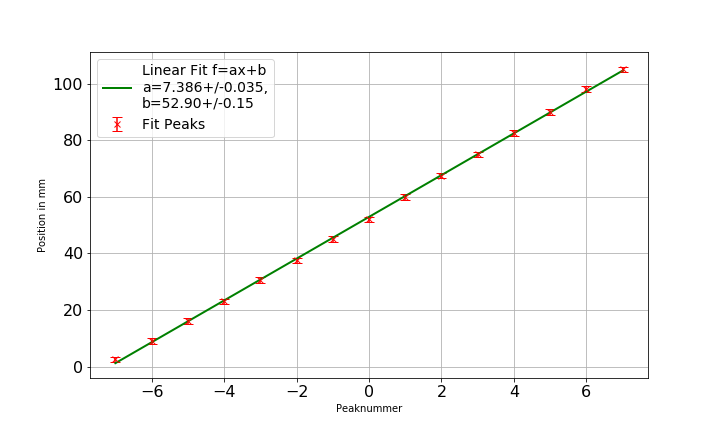
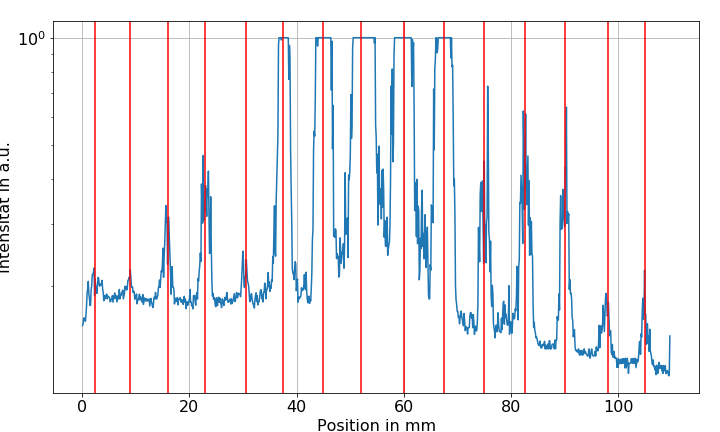
OFT prepull

diff --git a/OFT/BA-C-04_OFT_17-06-2019.tex b/OFT/BA-C-04_OFT_17-06-2019.tex
@@ -293,6 +293,100 @@
 	% Allgemeine Beobachtungen
 	% Einflüsse von veränderten Parametern auf Messung
 
+\begin{figure}[H]
+        \centering
+        \begin{subfigure}[b]{0.475\textwidth}
+            \centering
+            \includegraphics[width=\textwidth]{img/2/2_gitter_g1}
+            \caption%
+            {Profil, Gitter g1}
+            \label{fig_2_profil_g1}
+        \end{subfigure}
+        \hfill
+        \begin{subfigure}[b]{0.475\textwidth}
+            \centering
+            \includegraphics[width=\textwidth]{img/2/2_gitter_g1_fit}
+            \caption[]%
+            {Fit, Gitter g1}
+            \label{fig_2_fit_g1}
+        \end{subfigure}
+        \begin{subfigure}[b]{0.475\textwidth}
+            \centering
+            \includegraphics[width=\textwidth]{img/2/2_gitter_g2}
+            \caption%
+            {Profil, Gitter g2}
+            \label{fig_2_profil_g2}
+        \end{subfigure}
+        \hfill
+        \begin{subfigure}[b]{0.475\textwidth}
+            \centering
+            \includegraphics[width=\textwidth]{img/2/2_gitter_g2_fit}
+            \caption[]%
+            {Fit, Gitter g2}
+            \label{fig_2_fit_g2}
+        \end{subfigure}
+        \begin{subfigure}[b]{0.475\textwidth}
+            \centering
+            \includegraphics[width=\textwidth]{img/2/2_gitter_g3}
+            \caption%
+            {Profil, Gitter g3}
+            \label{fig_2_profil_g3}
+        \end{subfigure}
+        \hfill
+        \begin{subfigure}[b]{0.475\textwidth}
+            \centering
+            \includegraphics[width=\textwidth]{img/2/2_gitter_g3_fit}
+            \caption[]%
+            {Fit, Gitter g3}
+            \label{fig_2_fit_g3}
+        \end{subfigure}
+        \caption%
+        {
+				Kameraaufnahmen und Intensitätsprofile für verschiedene Gitter.
+				Die x-Achse \enquote{Position} sagt nichts über die absolute Position des Maximums aus, sondern dient lediglich dem Bestimmen von Abständen zwischen Peaks.
+				}
+        \label{fig_2_mix_1}
+    \end{figure}
+	\begin{figure}[H]\ContinuedFloat
+        \centering
+
+				\begin{subfigure}[b]{0.475\textwidth}
+            \centering
+            \includegraphics[width=\textwidth]{img/2/2_gitter_g4}
+            \caption%
+            {Profil, Gitter g4}
+            \label{fig_2_profil_g4}
+        \end{subfigure}
+        \hfill
+        \begin{subfigure}[b]{0.475\textwidth}
+            \centering
+            \includegraphics[width=\textwidth]{img/2/2_gitter_g4_fit}
+            \caption[]%
+            {Fit, Gitter g4}
+            \label{fig_2_fit_g4}
+        \end{subfigure}
+        \begin{subfigure}[b]{0.475\textwidth}
+            \centering
+            \includegraphics[width=\textwidth]{img/2/2_gitter_g5}
+            \caption%
+            {Profil, Gitter g5}
+            \label{fig_2_profil_g5}
+        \end{subfigure}
+        \hfill
+        \begin{subfigure}[b]{0.475\textwidth}
+            \centering
+            \includegraphics[width=\textwidth]{img/2/2_gitter_g5_fit}
+            \caption[]%
+            {Fit, Gitter g5}
+            \label{fig_2_fit_g5}
+        \end{subfigure}
+        \caption%
+        {
+				Kameraaufnahmen und Intensitätsprofile für verschiedene Gitter.
+				Die x-Achse \enquote{Position} sagt nichts über die absolute Position des Maximums aus, sondern dient lediglich dem Bestimmen von Abständen zwischen Peaks. (Forts.)
+				}
+        \label{fig_2_mix_2}
+    \end{figure}
 	\subsubsection*{Diskussion}
 	% Bezug/Nutzen oder sonst was
 	% auch hier die Hypothese wiederholen

diff --git a/OFT/scripts/gen.py b/OFT/scripts/gen.py
@@ -23,7 +23,7 @@ usd=unp.std_devs
 # Konstanten fuer einheitliche Darstellung
 
 fig_size = (10, 6)
-fig_legendsize = 14
+fig_legendsize = 18
 fig_labelsize = 16
 matplotlib.rcParams.update({'font.size': fig_labelsize})
 
@@ -212,6 +212,7 @@ for name in names:
     #plt.gca().set_xscale('log');
     #plt.legend(prop={'size':fig_legendsize})
     plt.grid()
+    plt.tight_layout()
     plt.ylabel('Intensität in a.u.')
     plt.tick_params(labelsize=fig_labelsize)
 
@@ -231,9 +232,10 @@ for name in names:
 
     plt.grid()
     plt.legend(prop={'size':fig_legendsize})
+    plt.tight_layout()
     plt.ylabel('Position in mm')
     plt.tick_params(labelsize=fig_labelsize)
 
     plt.xlabel('Peaknummer')
-    plt.savefig("OFT/img/2/%s"%(nnname + ".png"))
+    plt.savefig("OFT/img/2/%s"%(nnname + "_fit.png"))
     plt.show()
